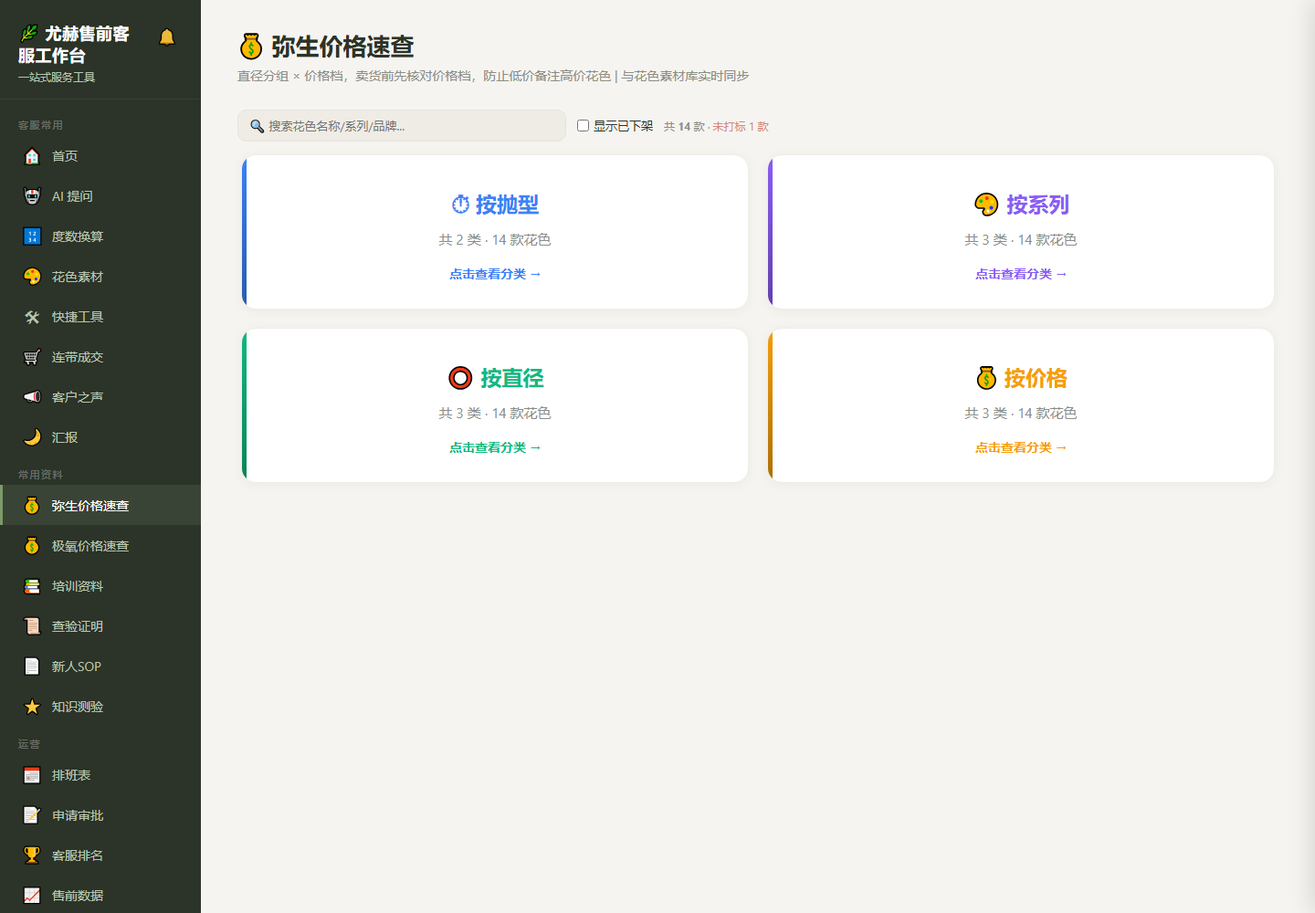
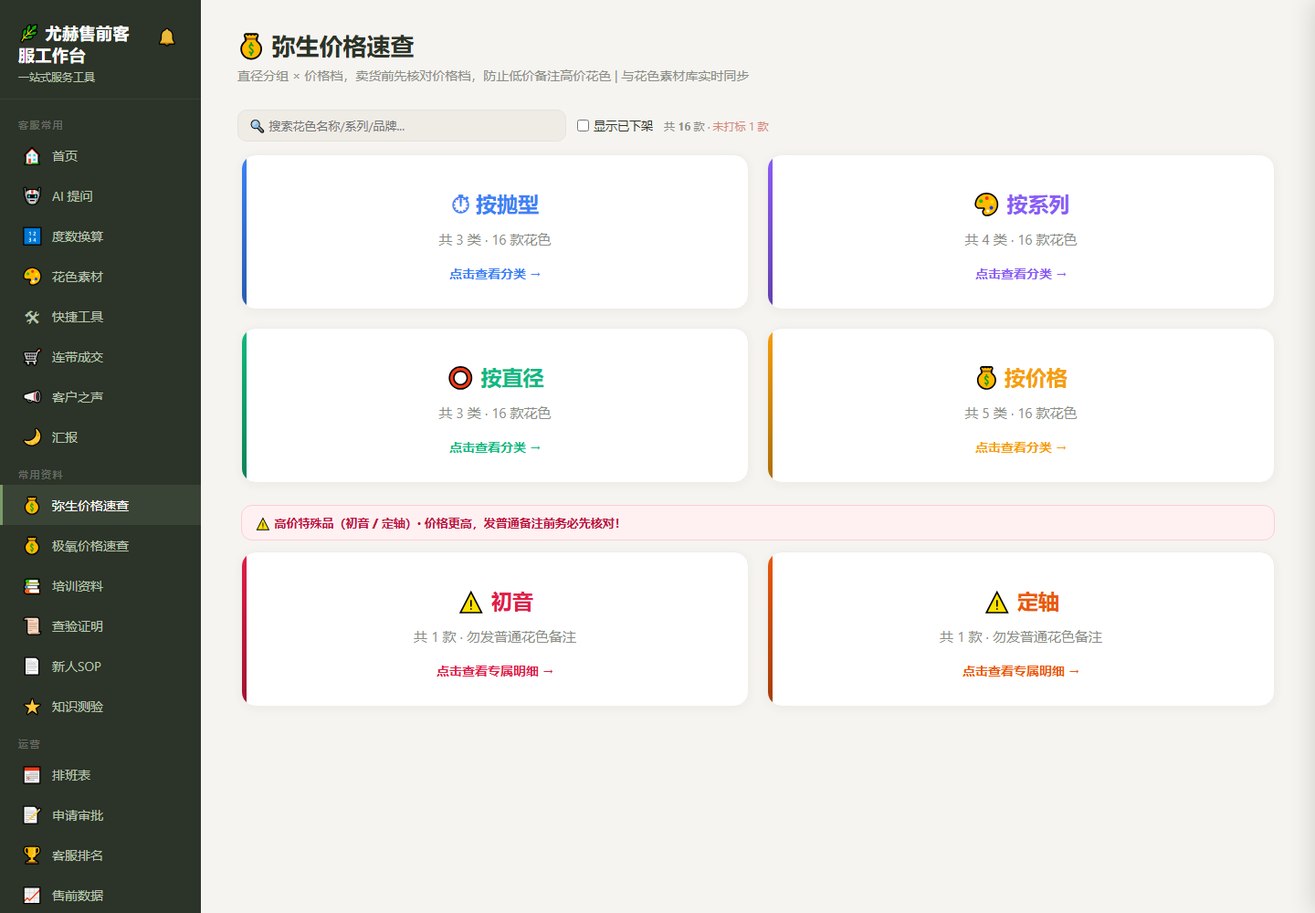
feat(patterns): 价格速查新增高价特殊品专区（初音/定轴）——首层红色警示卡直达明细，明细页禁止普通备注横幅，卡片玫红角标；补齐专用CSS与角标渲染，修复汇总层计数

diff --git a/index.html b/index.html
@@ -727,6 +727,7 @@ body {
 .pp-group{margin-bottom:26px}
 .pp-group-title{display:flex;align-items:center;gap:8px;font-size:17px;font-weight:800;color:var(--primary);padding:6px 2px;border-bottom:2px solid var(--primary);margin-bottom:14px}
 .pp-group-title.pp-warn{color:#b45309;border-color:#f59e0b}
+.pp-group-title.special{color:#be123c;border-color:#f43f5e}
 .pp-tier{margin-bottom:18px}
 .pp-tier-title{display:inline-flex;align-items:center;gap:7px;font-size:13px;font-weight:700;color:#92400e;background:#fef3c7;border:1px solid #fde68a;padding:4px 13px;border-radius:16px;margin-bottom:9px}
 .pp-tier-title.pp-tier-warn{color:#9a3412;background:#ffedd5;border-color:#fed7aa}
@@ -777,6 +778,10 @@ body {
 .pp-back{display:inline-flex;align-items:center;gap:6px;border:1px solid var(--border);background:#fff;border-radius:999px;padding:6px 16px;font-size:13px;font-weight:600;cursor:pointer;font-family:inherit;color:var(--text-secondary);margin-bottom:12px;transition:all .2s}
 .pp-back:hover{border-color:var(--primary-light);color:var(--primary)}
 .pp-disc-badge{position:absolute;top:7px;left:7px;background:#d97706;color:#fff;font-size:11px;padding:1px 8px;border-radius:10px;z-index:2}
+/* 高价特殊品警示（初音/定轴）：价格更高，防止客服发错普通花色备注 */
+.pp-special-badge{position:absolute;bottom:7px;right:7px;background:linear-gradient(135deg,#e11d48,#be123c);color:#fff;font-size:11px;font-weight:700;padding:2px 9px;border-radius:11px;z-index:2;box-shadow:0 1px 5px rgba(0,0,0,.3);white-space:nowrap;pointer-events:none}
+.pp-special-head{margin:24px 4px 12px;font-size:13px;font-weight:800;color:#be123c;padding:10px 14px;background:#fff1f2;border:1.5px solid #fecdd3;border-radius:12px}
+.pp-special-banner{margin:0 2px 12px;font-size:13px;font-weight:700;color:#9f1239;background:linear-gradient(90deg,#ffe4e6,#fff1f2);border:1px solid #fda4af;border-radius:12px;padding:9px 13px}
 .pp-check{position:absolute;top:6px;right:6px;z-index:3;background:rgba(255,255,255,.94);border-radius:50%;width:26px;height:26px;display:flex;align-items:center;justify-content:center;box-shadow:0 1px 4px rgba(0,0,0,.2)}
 .pp-check input{width:15px;height:15px;cursor:pointer;accent-color:var(--primary)}
 .pp-body{padding:8px 10px 10px}
@@ -9707,6 +9712,12 @@ const PP_DIMS = [
   { dim: 'diam',   icon: '⭕', title: '按直径', color: '#10b981', key: p => p.diamGroup || '', badgeOf: 'price' },
   { dim: 'price',  icon: '💰', title: '按价格', color: '#f59e0b', key: p => p.priceTier || '', badgeOf: 'diam' },
 ];
+// 高价特殊品：初音=系列名为「初音」；定轴=fixed_axis 填了值。均比普通花色贵，客服容易把普通备注错发到这些单
+const PP_SPECIALS = [
+  { key: 'chuyin',   label: '初音', color: '#e11d48', match: p => (p.series || '') === '初音' },
+  { key: 'dingzhou', label: '定轴', color: '#ea580c', match: p => !!(((p.fixedAxis || '') + '').trim()) },
+];
+function ppSpecialTags(p) { const a = []; PP_SPECIALS.forEach(s => { if (s.match(p)) a.push(s.label); }); return a; }
 function renderPatternPricePage() {
   const canManage = canEdit('patterns');
   // 批量打标下拉（管理员可见时才有意义）
@@ -9767,30 +9778,71 @@ function renderPatternPricePage() {
         + '<div class="pp-tiercard-enter">点击查看分类 →</div></div>';
     });
     html += '</div>';
+    // 高价特殊品专区（初音/定轴）：只要当前范围有匹配就单独红卡展示，防客服发错普通备注
+    const spHits = PP_SPECIALS.filter(s => items.some(s.match));
+    if (spHits.length) {
+      html += '<div class="pp-special-head">⚠ 高价特殊品（' + spHits.map(s => s.label).join(' / ') + '）· 价格更高，发普通备注前务必先核对！</div><div class="pp-tiercards">';
+      spHits.forEach(s => {
+        const n = items.filter(s.match).length;
+        html += '<div class="pp-tiercard l1" style="--c:' + s.color + '" onclick="openPpDim(\'special\',\'' + s.key + '\')">'
+          + '<div class="pp-tiercard-price">⚠ ' + s.label + '</div>'
+          + '<div class="pp-tiercard-sub">共 ' + n + ' 款 · 勿发普通花色备注</div>'
+          + '<div class="pp-tiercard-enter">点击查看专属明细 →</div></div>';
+      });
+      html += '</div>';
+    }
     if (!items.length) html = '<div class="pattern-empty">😕 没有匹配的花色，先到「花色素材」给花色填上抛型/系列/直径/价格档吧</div>';
   } else if (!ppDimView.val) {
     // ===== 第二层：该分类下的选项卡片（如各系列 / 各抛型 / 各价格档） =====
-    const def = PP_DIMS.find(d => d.dim === ppDimView.dim) || PP_DIMS[3];
-    const opt = ppDimOptions(def.dim, items);
     html += '<button class="pp-back" onclick="ppBackToDims()">← 返回分类入口</button>';
-    html += '<div class="pp-group-title">' + def.icon + ' ' + def.title + '<span class="pp-count">' + items.length + ' 款</span></div>';
-    html += '<div class="pp-tiercards pp-opt-grid">';
-    opt.list.forEach(v => { html += dimCard(def, v, v, items.filter(p => opt.get(p) === v), false); });
-    html += dimCard(def, '__none__', opt.noneLabel, items.filter(p => !opt.get(p)), true);
-    html += '</div>';
+    if (ppDimView.dim === 'special') {
+      const spHits = PP_SPECIALS.filter(s => items.some(s.match));
+      const spTotal = items.filter(p => ppSpecialTags(p).length > 0).length;
+      html += '<div class="pp-group-title special">⚠ 高价特殊品<span class="pp-count">共 ' + spTotal + ' 款</span></div>';
+      html += '<div class="pp-tiercards">';
+      spHits.forEach(s => {
+        const n = items.filter(s.match).length;
+        html += '<div class="pp-tiercard l1" style="--c:' + s.color + '" onclick="openPpDim(\'special\',\'' + s.key + '\')">'
+          + '<div class="pp-tiercard-price">⚠ ' + s.label + '</div>'
+          + '<div class="pp-tiercard-sub">共 ' + n + ' 款 · 勿发普通花色备注</div>'
+          + '<div class="pp-tiercard-enter">点击查看专属明细 →</div></div>';
+      });
+      html += '</div>';
+      if (!spTotal) html += '<div class="pattern-empty">😕 当前筛选下没有高价特殊品</div>';
+    } else {
+      const def = PP_DIMS.find(d => d.dim === ppDimView.dim) || PP_DIMS[3];
+      const opt = ppDimOptions(def.dim, items);
+      html += '<div class="pp-group-title">' + def.icon + ' ' + def.title + '<span class="pp-count">' + items.length + ' 款</span></div>';
+      html += '<div class="pp-tiercards pp-opt-grid">';
+      opt.list.forEach(v => { html += dimCard(def, v, v, items.filter(p => opt.get(p) === v), false); });
+      html += dimCard(def, '__none__', opt.noneLabel, items.filter(p => !opt.get(p)), true);
+      html += '</div>';
+    }
   } else {
-    // ===== 第三层：某分类某选项下的花色明细 =====
-    const def = PP_DIMS.find(d => d.dim === ppDimView.dim) || PP_DIMS[3];
-    const opt = ppDimOptions(def.dim, items);
-    const isNone = ppDimView.val === '__none__';
-    const detail = items.filter(p => isNone ? !opt.get(p) : opt.get(p) === ppDimView.val);
+    // ===== 第三层：花色明细 =====
+    const isSpecial = ppDimView.dim === 'special';
+    const def = isSpecial ? { dim: 'special', icon: '⚠', title: '高价特殊品' } : (PP_DIMS.find(d => d.dim === ppDimView.dim) || PP_DIMS[3]);
+    let opt = null, isNone = false, detail = [], titleVal = ppDimView.val;
+    if (isSpecial) {
+      const sp = PP_SPECIALS.find(s => s.key === ppDimView.val) || null;
+      detail = sp ? items.filter(sp.match) : [];
+      titleVal = sp ? sp.label : '特殊品';
+    } else {
+      opt = ppDimOptions(def.dim, items);
+      isNone = ppDimView.val === '__none__';
+      detail = items.filter(p => isNone ? !opt.get(p) : opt.get(p) === ppDimView.val);
+      titleVal = isNone ? opt.noneLabel : ppDimView.val;
+    }
     html += '<button class="pp-back" onclick="ppBackToDimOptions(\'' + escapeAttr(def.dim) + '\')">← 返回' + escapeHtml(def.title) + '</button>';
-    html += '<div class="pp-group-title' + (isNone ? ' pp-warn' : '') + '">' + def.icon + ' ' + (isNone ? opt.noneLabel : escapeHtml(ppDimView.val)) + '<span class="pp-count">' + detail.length + ' 款</span></div>';
-    // 明细分组：按直径进来的用价格档分组，其余维度都按直径分组
-    const gd = def.dim === 'diam'
+    if (isSpecial) {
+      html += '<div class="pp-special-banner">⚠ 高价特殊品：禁止发送普通花色备注！发备注前务必先核对本页价格</div>';
+    }
+    html += '<div class="pp-group-title' + (isNone ? ' pp-warn' : '') + (isSpecial ? ' special' : '') + '">' + def.icon + ' ' + escapeHtml(titleVal) + '<span class="pp-count">' + detail.length + ' 款</span></div>';
+    // 明细分组：特殊品/按直径进来 → 按价格档分组；其余维度按直径分组
+    const gd = (def.dim === 'diam' || isSpecial)
       ? { get: p => p.priceTier || '', noneLabel: '❓ 未标价' }
       : { get: p => p.diamGroup || '', noneLabel: '⏳ 待分组（未标直径）' };
-    const gList = def.dim === 'diam' ? ppDimOptions('price', items).list : ppDimOptions('diam', items).list;
+    const gList = (def.dim === 'diam' || isSpecial) ? ppTierList() : ppDimOptions('diam', items).list;
     const limit = Math.max(1, ppRenderLimit || PP_PAGE_SIZE);
     let shown = 0, truncated = false;
     for (const g of [...gList, '']) {
@@ -9848,6 +9900,8 @@ function ppCardHtml(p, canManage) {
     ? '<span class="pp-price-tag">' + escapeHtml(p.priceTier) + '</span>'
     : '<span class="pp-price-tag none">未标价</span>';
   const discBadge = p.isDiscontinued ? '<div class="pp-disc-badge">已下架</div>' : '';
+  const spTags = ppSpecialTags(p);
+  const spBadge = spTags.length ? '<div class="pp-special-badge">⚠' + spTags.map(t => escapeHtml(t)).join(' · ') + '</div>' : '';
   const isNew = (() => { if (!p.createdAt) return false; const c = new Date(p.createdAt).getTime(); return !isNaN(c) && (Date.now() - c) < 30 * 86400000; })();
   const newInline = (!p.isDiscontinued && isNew) ? '<span class="pp-new-inline">🆕</span>' : '';
   const chk = canManage
@@ -9870,7 +9924,7 @@ function ppCardHtml(p, canManage) {
   const nameStyle = p.isDiscontinued ? ' style="text-decoration:line-through;opacity:.65;"' : '';
   const metaParts = [p._brand, p.series, p.diameter ? '直径' + p.diameter : ''].filter(Boolean);
   return '<div class="pp-card' + (p.isDiscontinued ? ' disc' : '') + (ppSel.has(p._id) ? ' sel' : '') + '"' + clickAttr + '>'
-    + '<div class="pp-img">' + discBadge + imgHtml + priceTag + chk + '</div>'
+    + '<div class="pp-img">' + discBadge + imgHtml + priceTag + spBadge + chk + '</div>'
     + '<div class="pp-body"><div class="pp-name"' + nameStyle + '>' + escapeHtml(p.name) + newInline + '</div>'
     + '<div class="pp-meta">' + escapeHtml(metaParts.join(' · ')) + '</div>' + quickBar + '</div>'
     + '</div>';

diff --git a/outputs/smoke-pp.js b/outputs/smoke-pp.js
@@ -309,6 +309,86 @@ const wd = setTimeout(()=>{ console.log('WATCHDOG_TIMEOUT'); process.exit(3); },
     return o;
   });
 
+  // ===== 高价特殊品专区（初音/定轴）：自建小数据集独立验证 =====
+  await ev('specialZone', ()=>{
+    const o={};
+    const now=new Date().toISOString();
+    const mk=(id,brand,type,name,opt={})=>({
+      id, brand, type, name, series:opt.series||'', color:opt.color||'棕色系',
+      diameter:opt.diameter||'14.2', color_diameter:'13.5', material:'硅水凝胶', oxygen:'', water:'',
+      base_curve:'8.6', fixed_axis:opt.fixed_axis||'', spec:'', price_tier:opt.price_tier||'', diam_group:opt.diam_group||'',
+      lens_img:'', eye_img:'', lens_imgs:[], eye_imgs:[], thumb_eye_url:'', thumb_lens_url:'',
+      description:'推荐话术', sort_order:0, is_discontinued:false, created_at:now
+    });
+    const rows=[
+      mk('s1','弥生','日抛','奶茶棕',{series:'倾慕系列',price_tier:'29.9元/副',diam_group:'小直径'}),
+      mk('s2','弥生','月抛','初音粉',{series:'初音',price_tier:'139元/副',diam_group:'小直径'}),
+      mk('s3','弥生','半年抛','定轴灰',{series:'星眸系列',fixed_axis:'90°',price_tier:'99元/副',diam_group:'大直径',diameter:'14.5'}),
+      mk('s4','弥生','日抛','普通灰',{series:'倾慕系列',price_tier:'29.9元/副',diam_group:'小直径'}),
+      mk('s5','弥生','月抛','初音定轴',{series:'初音',fixed_axis:'90°',price_tier:'199元/副',diam_group:'大直径',diameter:'14.5'}),
+    ];
+    patternData=buildPatternTree(rows);
+    patternCategories=[
+      {id:'p1',category_type:'price',name:'29.9元/副',sort_order:1},
+      {id:'p2',category_type:'price',name:'99元/副',sort_order:2},
+      {id:'p3',category_type:'price',name:'139元/副',sort_order:3},
+      {id:'p4',category_type:'price',name:'199元/副',sort_order:4},
+      {id:'g1',category_type:'diam_group',name:'小直径',sort_order:1},
+      {id:'g2',category_type:'diam_group',name:'大直径',sort_order:2},
+      {id:'t1',category_type:'type',name:'日抛',sort_order:1},
+      {id:'t2',category_type:'type',name:'月抛',sort_order:2},
+      {id:'t3',category_type:'type',name:'半年抛',sort_order:3},
+      {id:'b1',category_type:'brand',name:'弥生',sort_order:1},
+    ];
+    currentProfile=null; ppSel.clear(); ppDimView=null; ppRenderLimit=PP_PAGE_SIZE; ppBrandFilter='弥生';
+    document.querySelectorAll('.modal.show').forEach(m=>m.classList.remove('show'));
+    const sq=document.getElementById('pp-search'); if(sq) sq.value='';
+    const sd=document.getElementById('pp-show-disc'); if(sd) sd.checked=false;
+    renderPatternPricePage();
+    const c=()=>document.getElementById('pp-content').textContent;
+    // 第一层（客服）：四分类卡下方出现红色特殊品专区（初音+定轴两张红卡）
+    o.spHeadOk = !!document.querySelector('#pp-content .pp-special-head')
+      && c().includes('高价特殊品（初音 / 定轴）') && c().includes('价格更高');
+    o.spL1Cards = document.querySelectorAll('#pp-content .pp-tiercard').length;   // 4 分类卡 + 2 红卡 = 6
+    o.spRedSubOk = c().includes('勿发普通花色备注');
+    o.spL1NoChecks = document.querySelectorAll('#pp-content .pp-check').length===0;
+    o.spL1NoQuick = document.querySelectorAll('#pp-content .pp-quick').length===0;
+    // 点初音红卡 → 直达明细（客服）：banner/标题/红色角标/按价格档分组
+    openPpDim('special','chuyin');
+    o.spDetailCards = document.querySelectorAll('#pp-content .pp-card').length;   // 初音粉 + 初音定轴 = 2
+    o.spBannerOk = c().includes('禁止发送普通花色备注');
+    o.spTitleOk = c().includes('初音') && c().includes('2 款');
+    o.spBadgeCount = document.querySelectorAll('#pp-content .pp-special-badge').length;   // 2
+    o.spBadgeOk = o.spBadgeCount>=2 && c().includes('初音 · 定轴');               // s5 命中两条规则 → 双标签
+    o.spGroupByPriceOk = c().includes('139元/副') && c().includes('199元/副');
+    o.spBackLabelOk = (document.querySelector('#pp-content .pp-back')||{textContent:''}).textContent.includes('返回高价特殊品');
+    const bbC=document.getElementById('pp-batch-bar');
+    o.spBatchHiddenCs = !bbC || bbC.style.display==='none';
+    // 返回 → 特殊品汇总层（s5 同时命中两条，去重后共 3 款）
+    ppBackToDimOptions('special');
+    o.spL2Cards = document.querySelectorAll('#pp-content .pp-tiercard').length;   // 2 张红卡
+    o.spL2CountOk = !!document.querySelector('#pp-content .pp-group-title.special')
+      && c().includes('共 3 款');
+    ppBackToDims();
+    o.spBackToL1Ok = ppDimView===null && document.querySelectorAll('#pp-content .pp-tiercard').length===6;
+    // 搜索：排除特殊品 → 红区消失；只命中初音 → 只剩初音一张红卡
+    sq.value='奶茶棕'; renderPatternPricePage();
+    o.spZoneGoneOnSearch = document.querySelectorAll('#pp-content .pp-tiercard').length===4
+      && !c().includes('高价特殊品') && !c().includes('初音粉');
+    sq.value='初音粉'; renderPatternPricePage();   // 只命中单条规则（初音、非定轴）的 s2 → 只剩初音红卡
+    o.spSearchOneCards = document.querySelectorAll('#pp-content .pp-tiercard').length;   // 4 + 1
+    o.spSearchOneOk = c().includes('高价特殊品（初音）') && !c().includes('高价特殊品（初音 / 定轴）') && !c().includes('定轴灰') && !c().includes('初音定轴');
+    sq.value=''; renderPatternPricePage();
+    // 管理员：特殊品明细内批量条显示 + 勾选框/快捷下拉齐全
+    currentProfile={role:'admin',name:'杨茹'};
+    openPpDim('special','chuyin');
+    const bbA=document.getElementById('pp-batch-bar');
+    o.spAdminBarOk = bbA && bbA.style.display==='flex';
+    o.spAdminChecks = document.querySelectorAll('#pp-content .pp-check').length;          // 2
+    o.spQuickSelects = document.querySelectorAll('#pp-content .pp-quick select').length;  // 4
+    return o;
+  });
+
   // 汇总
   out._errs = errs.slice(0,6);
   console.log(JSON.stringify(out,null,2));
@@ -319,9 +399,11 @@ const wd = setTimeout(()=>{ console.log('WATCHDOG_TIMEOUT'); process.exit(3); },
     adminChecks:3, quickSelects:6,
     pagedCards:2, afterMoreCards:4,
     optGridCols:3,
-    tierCardsJiyang:4
+    tierCardsJiyang:4,
+    spL1Cards:6, spDetailCards:2, spBadgeCount:2, spL2Cards:2,
+    spSearchOneCards:5, spAdminChecks:2, spQuickSelects:4
   };
-  const needed = ['treeFieldsOk','l1Info','noCardsLayer1','noCheckbox','noQuick','noPatternNames','no499','batchBarHiddenCs','backBtn','l2Title','seriesInfo','l2NoPatterns','l2NoCheckbox','optGridOk','batchBarHiddenCsL2','backOk','backLabelOk','typeTitleOk','typePatterns','typeGroupsOk','csTierNoCheckbox','batchBarHiddenCsTier','backToL2Ok','diamGroupsByPrice','priceGroupsByDiam','batchBarEl','batchBarHiddenL1','batchBarHiddenL2','batchBarVisibleTier','disc69Card','discVisible','loadMoreOk','oldNavGone','aliasReset','aliasJiyangOk','navActiveJiyang','aliasMiyangOk','navActiveMiyang','aliasBarHiddenL1','quickOk','localSynced','movedOut','batchOk','selClearedAfter','searchOk','editorPriceExists','editorDgExists','editorOptions','filterFnOk'];
+  const needed = ['treeFieldsOk','l1Info','noCardsLayer1','noCheckbox','noQuick','noPatternNames','no499','batchBarHiddenCs','backBtn','l2Title','seriesInfo','l2NoPatterns','l2NoCheckbox','optGridOk','batchBarHiddenCsL2','backOk','backLabelOk','typeTitleOk','typePatterns','typeGroupsOk','csTierNoCheckbox','batchBarHiddenCsTier','backToL2Ok','diamGroupsByPrice','priceGroupsByDiam','batchBarEl','batchBarHiddenL1','batchBarHiddenL2','batchBarVisibleTier','disc69Card','discVisible','loadMoreOk','oldNavGone','aliasReset','aliasJiyangOk','navActiveJiyang','aliasMiyangOk','navActiveMiyang','aliasBarHiddenL1','quickOk','localSynced','movedOut','batchOk','selClearedAfter','searchOk','editorPriceExists','editorDgExists','editorOptions','filterFnOk','spHeadOk','spRedSubOk','spL1NoChecks','spL1NoQuick','spBannerOk','spTitleOk','spBadgeOk','spGroupByPriceOk','spBackLabelOk','spBatchHiddenCs','spL2CountOk','spBackToL1Ok','spZoneGoneOnSearch','spSearchOneOk','spAdminBarOk'];
   const numericKeys = Object.keys(numeric);
   const missing = needed.concat(numericKeys).filter(k=>!(k in out));
   const ok = missing.length===0 && needed.every(k=>out[k]===true) && numericKeys.every(k=>out[k]>=numeric[k]);

diff --git a/outputs/screenshot-pp.js b/outputs/screenshot-pp.js
@@ -13,7 +13,7 @@ const BASE = 'http://127.0.0.1:8123/index.html';
     const mk=(id,brand,type,name,opt={})=>({
       id, brand, type, name, series:opt.series||'倾慕系列', color:opt.color||'棕色系',
       diameter:opt.diameter||'14.2', color_diameter:'13.5', material:'硅水凝胶', oxygen:'', water:'',
-      base_curve:'8.6', fixed_axis:'', spec:'', price_tier:opt.price_tier||'', diam_group:opt.diam_group||'',
+      base_curve:'8.6', fixed_axis:opt.fixed_axis||'', spec:'', price_tier:opt.price_tier||'', diam_group:opt.diam_group||'',
       lens_img:'', eye_img:'', lens_imgs:[], eye_imgs:[], thumb_eye_url:'', thumb_lens_url:'',
       description:'推荐话术', sort_order:opt.sort_order||0, is_discontinued:!!opt.disc, created_at:opt.created_at||now
     });
@@ -27,6 +27,9 @@ const BASE = 'http://127.0.0.1:8123/index.html';
       series: series[i%3], price_tier: i<26 ? tiers[i%4] : '', diam_group: i<26 ? groups[i%3] : '',
       diameter: groups[i%3]==='大直径' ? '14.5' : '14.2', disc: i===26
     }));
+    // 高价特殊品样例：初音（系列=初音）+ 定轴（fixed_axis 有值）
+    rows.push(mk('sp1','弥生','日抛','初音·心跳粉',{series:'初音',price_tier:'139元/副',diam_group:'小直径',created_at:now}));
+    rows.push(mk('sp2','弥生','半年抛','定轴·星雾灰',{series:'星眸系列',price_tier:'99元/副',diam_group:'大直径',diameter:'14.5',fixed_axis:'90°',created_at:now}));
     window.__rows = rows;
     patternCategories = [
       {id:'p1',category_type:'price',name:'29.9元/副',sort_order:1},
@@ -52,7 +55,16 @@ const BASE = 'http://127.0.0.1:8123/index.html';
   });
   await new Promise(r=>setTimeout(r,600));
   await page.screenshot({path:'outputs/pp-page-preview.png', fullPage:false});
-  // 第二层：点「按系列」→ 该分类下的系列选项卡片
+  // 第一层红卡 → 高价特殊品明细（验证警示横幅 + 卡片红色角标）
+  await page.evaluate(()=>{
+    const card = [...document.querySelectorAll('#pp-content .pp-tiercard.l1')].find(c=>c.textContent.includes('初音') && c.textContent.includes('勿发普通花色备注'));
+    if (card) card.click(); else openPpDim('special','chuyin');
+  });
+  await new Promise(r=>setTimeout(r,600));
+  await page.screenshot({path:'outputs/pp-special-preview.png', fullPage:false});
+  // 回第一层 → 第二层：点「按系列」→ 该分类下的系列选项卡片
+  await page.evaluate(()=>{ ppBackToDims(); });
+  await new Promise(r=>setTimeout(r,300));
   await page.evaluate(()=>{
     const card = [...document.querySelectorAll('#pp-content .pp-tiercard.l1')].find(c=>c.textContent.includes('按系列'));
     if (card) card.click(); else openPpDim('series');

diff --git a/.workbuddy/memory/2026-09-04.md b/.workbuddy/memory/2026-09-04.md
@@ -59,3 +59,62 @@ git add index.html .workbuddy/memory/2026-09-04.md && git commit -q -m "feat(pat
 - **验证**：smoke-pp.js 更新：旧导航已删、两个新入口存在、别名路由切极氧/弥生（标题+内容+导航高亮）、分页/快捷改档/批量等共 27 项断言 + 数值全过 PRICE_OK；语法 6 块全过；预览图更新。
 - **注意**：以后新增品牌要加快捷页的话，在 switchPage 的 PP_ALIAS 加一行 + 导航加一个 nav-item 即可。
 - **部署**：commit 227fa5c，main 已 push，无需 SQL。
+
+## 两级卡片结构（价格档 → 档内花色）
+- 需求：第一层按价格档渲染大卡片（只展示档位名/款数/直径分布徽标），点击进入第二层才见花色（按大/小直径分组）；`ppTierView` 状态变量，`openPpTier()`/`ppBackToTiers()` 两级切换
+- 踩坑：`refreshAdminUI`（行 3319）会重设批量条 display，把 renderPatternPricePage 里的隐藏覆盖掉 → 真实入口 switchPage 顺序 render→refreshAdminUI 导致管理员第一层批量条误显示；修复为 `(canEditPatterns && ppTierView)`；冒烟测试已加回归断言 aliasBarHiddenL1
+- 测试：smoke-pp.js 按两级结构重写（seed 加 a6/a7 覆盖档内分页+跨档移动），41 布尔断言 + 8 数值断言全过 PRICE_OK；语法 6 块全过
+- 预览：screenshot-pp.js 输出两张图（第一层价格档卡片 pp-page-preview.png + 档内花色 pp-tier-preview.png）
+- 部署：commit 256ab8f 已推送 main（GitHub Pages 约 1-2 分钟生效，看不了就 Ctrl+Shift+R 强刷）
+
+## 四维度入口（抛型/系列/直径/价格）
+- 需求：第一层从「只按价格档」扩成四个分区（⏱按抛型/🎨按系列/⭕按直径/💰按价格），点任意卡片进明细；用户选择「仅独立入口」不做叠加筛选
+- 实现：`ppDimView={dim,val}` 替代 ppTierView；`PP_DIMS` 定义四维度（key 取值函数 + badgeOf 卡面徽标维度）；`ppDimOptions(dim,items)` 统一取各维度选项（price/diam 用托管分类，type/series 用托管+已用值）；明细分组规则：按直径进来用价格档分组，其余维度按直径分组
+- 踩坑：种子数据 a8 弥生给了 49.9 导致「49.9 只在极氧」断言翻车 → 改 59.9；改种子后 filterFnOk 期望值要从 1 款改 2 款
+- 测试：smoke-pp.js 44 布尔 + 11 数值断言全过 PRICE_OK，语法 6 块全过；截图两张（四分区第一层 + 29.9 明细）
+- 部署：commit d62d7dc 已推送 main（约 1-2 分钟生效，看不到就 Ctrl+Shift+R 强刷）
+
+## 三级结构（分类入口 → 选项卡片 → 花色明细）
+- 需求（截图反馈）：第一视觉只看「按抛型/按系列/按直径/按价格」四张大卡，点进去第二层才看该分类的选项卡片（如各系列），再点选项第三层才看花色明细
+- 实现：ppDimView={dim,val:null}=第二层选项卡，val 有值=第三层明细；第一层四张 .pp-tiercard.l1 大卡（共 N 类 · M 款花色）；dimCard 提升为函数级复用；第三层返回按钮 ppBackToDimOptions(dim) 回第二层，第二层 ppBackToDims() 回第一层；批量条条件加 `&& ppDimView.val`（仅第三层显示，refreshAdminUI 同步改）
+- 踩坑：改层级后旧断言引用选项名（如 49.9元/副）在第一层不存在 → aliasMiyangOk/searchOk 改查层级特征；backToL2Ok 忘了输出数值字段导致缺失断言
+- 测试：smoke-pp.js 48 布尔 + 13 数值断言全过 PRICE_OK，语法 6 块全过；截图两张（第一层四张大卡 + 第二层按系列）
+- 部署：commit 35f5a34 已推送 main（约 1-2 分钟生效，看不到就 Ctrl+Shift+R 强刷）
+
+## 分类大卡居中 + 四色主题
+- 需求（截图反馈）：第一层四张分类大卡居中展示，每个分类不同颜色
+- 实现：PP_DIMS 增加 color 字段；第一层卡片 inline style `--c:颜色`；CSS 用 var(--c) 统一控制标题、左边条、hover 边框/阴影、进入文字；卡片 `display:flex` 居中 + `text-align:center`
+- 测试：smoke-pp.js 61 项断言 PRICE_OK 全过，语法 6 块全过
+- 部署：commit dcd1623 已推送 main（约 1-2 分钟生效，看不到就 Ctrl+Shift+R 强刷）
+
+## 第一层卡片网格：一行 2 个 + 整体居中
+- 需求（截图反馈）：卡片没有水平居中，要求一行 2 个卡片
+- 实现：`.pp-tiercards` 从 `auto-fill` 改成 `repeat(2, minmax(0, 320px))` + `justify-content:center`；移动端 (<720px)  fallback 为 1 列
+- 测试：smoke-pp.js PRICE_OK，语法 6 块全过
+- 部署：commit 9546bd1 已推送 main（约 1-2 分钟生效，看不到就 Ctrl+Shift+R 强刷）
+
+## 分类大卡放大占满页面
+- 需求（截图反馈）：2×2 居中后卡片太小，要求放大占满页面
+- 实现：`.pp-tiercards` 列宽从 `minmax(0,320px)` 改 `minmax(0,1fr)`（撑满内容区）；l1 卡 padding 34/24、min-height 170、标题 23px、副文 15px
+- 测试：PRICE_OK + 语法全过
+- 部署：commit 5404e75 已推送 main（约 1-2 分钟生效，看不到就 Ctrl+Shift+R 强刷）
+
+## 第二层选项卡改自适应多列
+- 需求（截图反馈）：系列等数量多的分类页，2 列大卡竖排太长要下拉，一眼看不全
+- 实现：第二层选项卡容器加 `pp-opt-grid` 类：`repeat(auto-fill,minmax(230px,1fr))` 宽屏自动 4 列、紧凑字号；第一层保持 2×2 大卡不变
+- 测试：smoke-pp.js 新增 optGridOk + optGridCols(≥3) 断言，PRICE_OK，语法全过
+- 部署：commit e874253 已推送 main（约 1-2 分钟生效，看不到就 Ctrl+Shift+R 强刷）
+
+## 高价特殊品专区（初音/定轴）——价格速查防发错备注
+- **需求**：初音（series=「初音」）和定轴（fixed_axis 有值）比普通花色贵，客服容易把普通花色备注发到这些订单，要在价格速查页单独警示。
+- **实现**（index.html，上半场 JS 由上一会话写完，本会话收尾）：
+  - 数据层：`PP_SPECIALS` 配置组（key/label/color/match），`ppSpecialTags(p)` 返回命中标签；以后加第三类特殊品只需在数组加一条。
+  - 第一层：四分类大卡下方，当前品牌有命中才显示 `pp-special-head` 粉色警示条 + 每类一张红卡（`--c` 玫红/橘红主题色），点红卡直达该类明细（跳过第二层）。
+  - 第二层（special 汇总）：红卡列表 + 去重计数（同款同时命中初音+定轴只算 1 款），搜索滤空时显示「😕 当前筛选下没有高价特殊品」。
+  - 第三层（明细）：顶部红色 `pp-special-banner`「禁止发送普通花色备注」，按价格档分组（与按直径进入的分组规则一致），返回按钮文案「← 返回高价特殊品」。
+  - 卡片角标：`ppCardHtml` 里 `spBadge` 拼进 `.pp-img`，右下角玫红渐变角标「⚠初音 · 定轴」（双命中显示双标签），`pointer-events:none` 不挡灯箱点击。
+  - CSS：补齐 `.pp-group-title.special`/`.pp-special-badge`/`.pp-special-head`/`.pp-special-banner` 四条（上一会话漏写，角标此前根本没拼进 HTML）。
+  - 修复：第二层特殊品标题计数原来误用 items.length（整品牌款数），改为 `ppSpecialTags` 去重后的特殊品款数。
+- **测试**：smoke-pp.js 新增 specialZone 独立数据集块（s1-s5，含双命中 s5）15 布尔 + 7 数值断言：L1 红区出现/客服无勾选框、直达明细 banner/角标/按价分组、汇总层去重计数「共 3 款」、搜索排除→红区消失、只命中单规则→只剩一张红卡、管理员批量条/勾选框/快捷下拉。全部 PRICE_OK，语法 5 段 inline script 全过。
+- **踩坑**：①搜「初音」验证单红卡翻车——双命中款 s5（初音+定轴）让两张红卡都在，改搜「初音粉」（只命中单规则的款名）才对；②截图脚本首层预览一度以为批量条泄漏到 L1，用「强制隐藏后字节对比」+elementFromPoint 探针证实是看了旧缓存图，DOM 状态一直正确，别被预览图骗了。
+- **部署**：无需 SQL（纯前端读现有 series/fixed_axis 字段）、无需 bump iframe 版本；预览图 pp-page-preview.png（首层含红区）/ pp-special-preview.png（初音明细）已更新。
